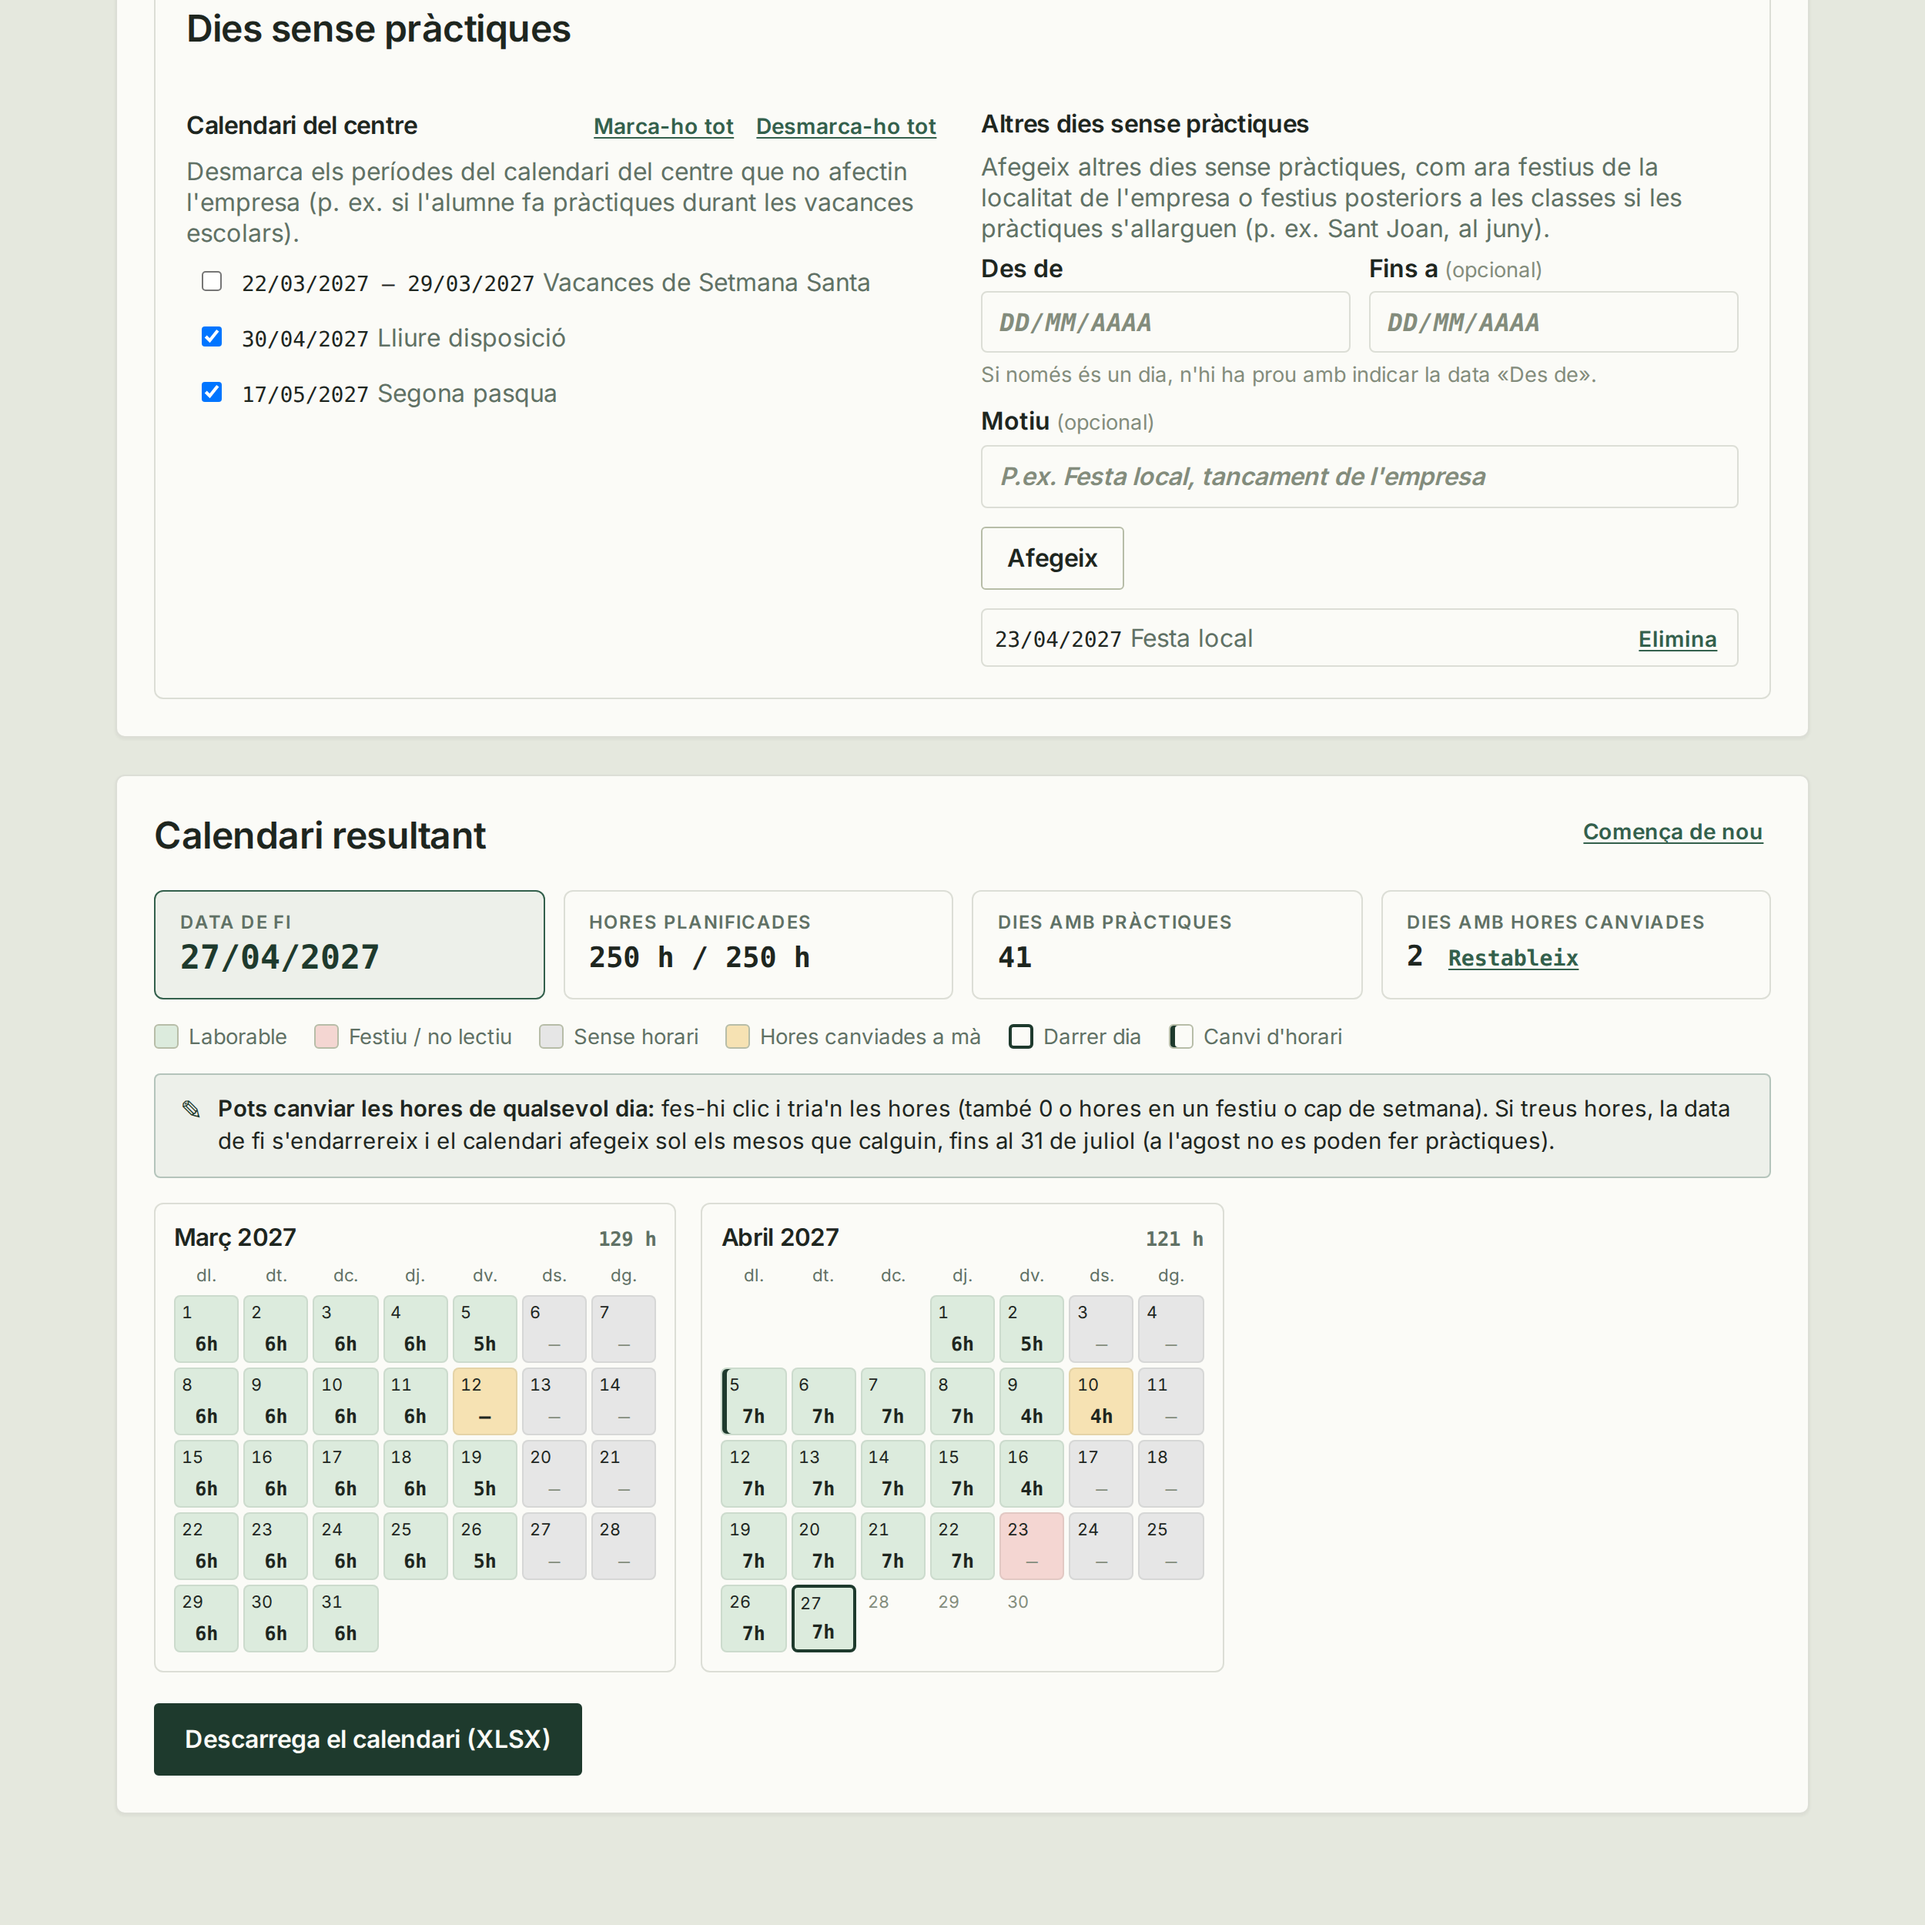
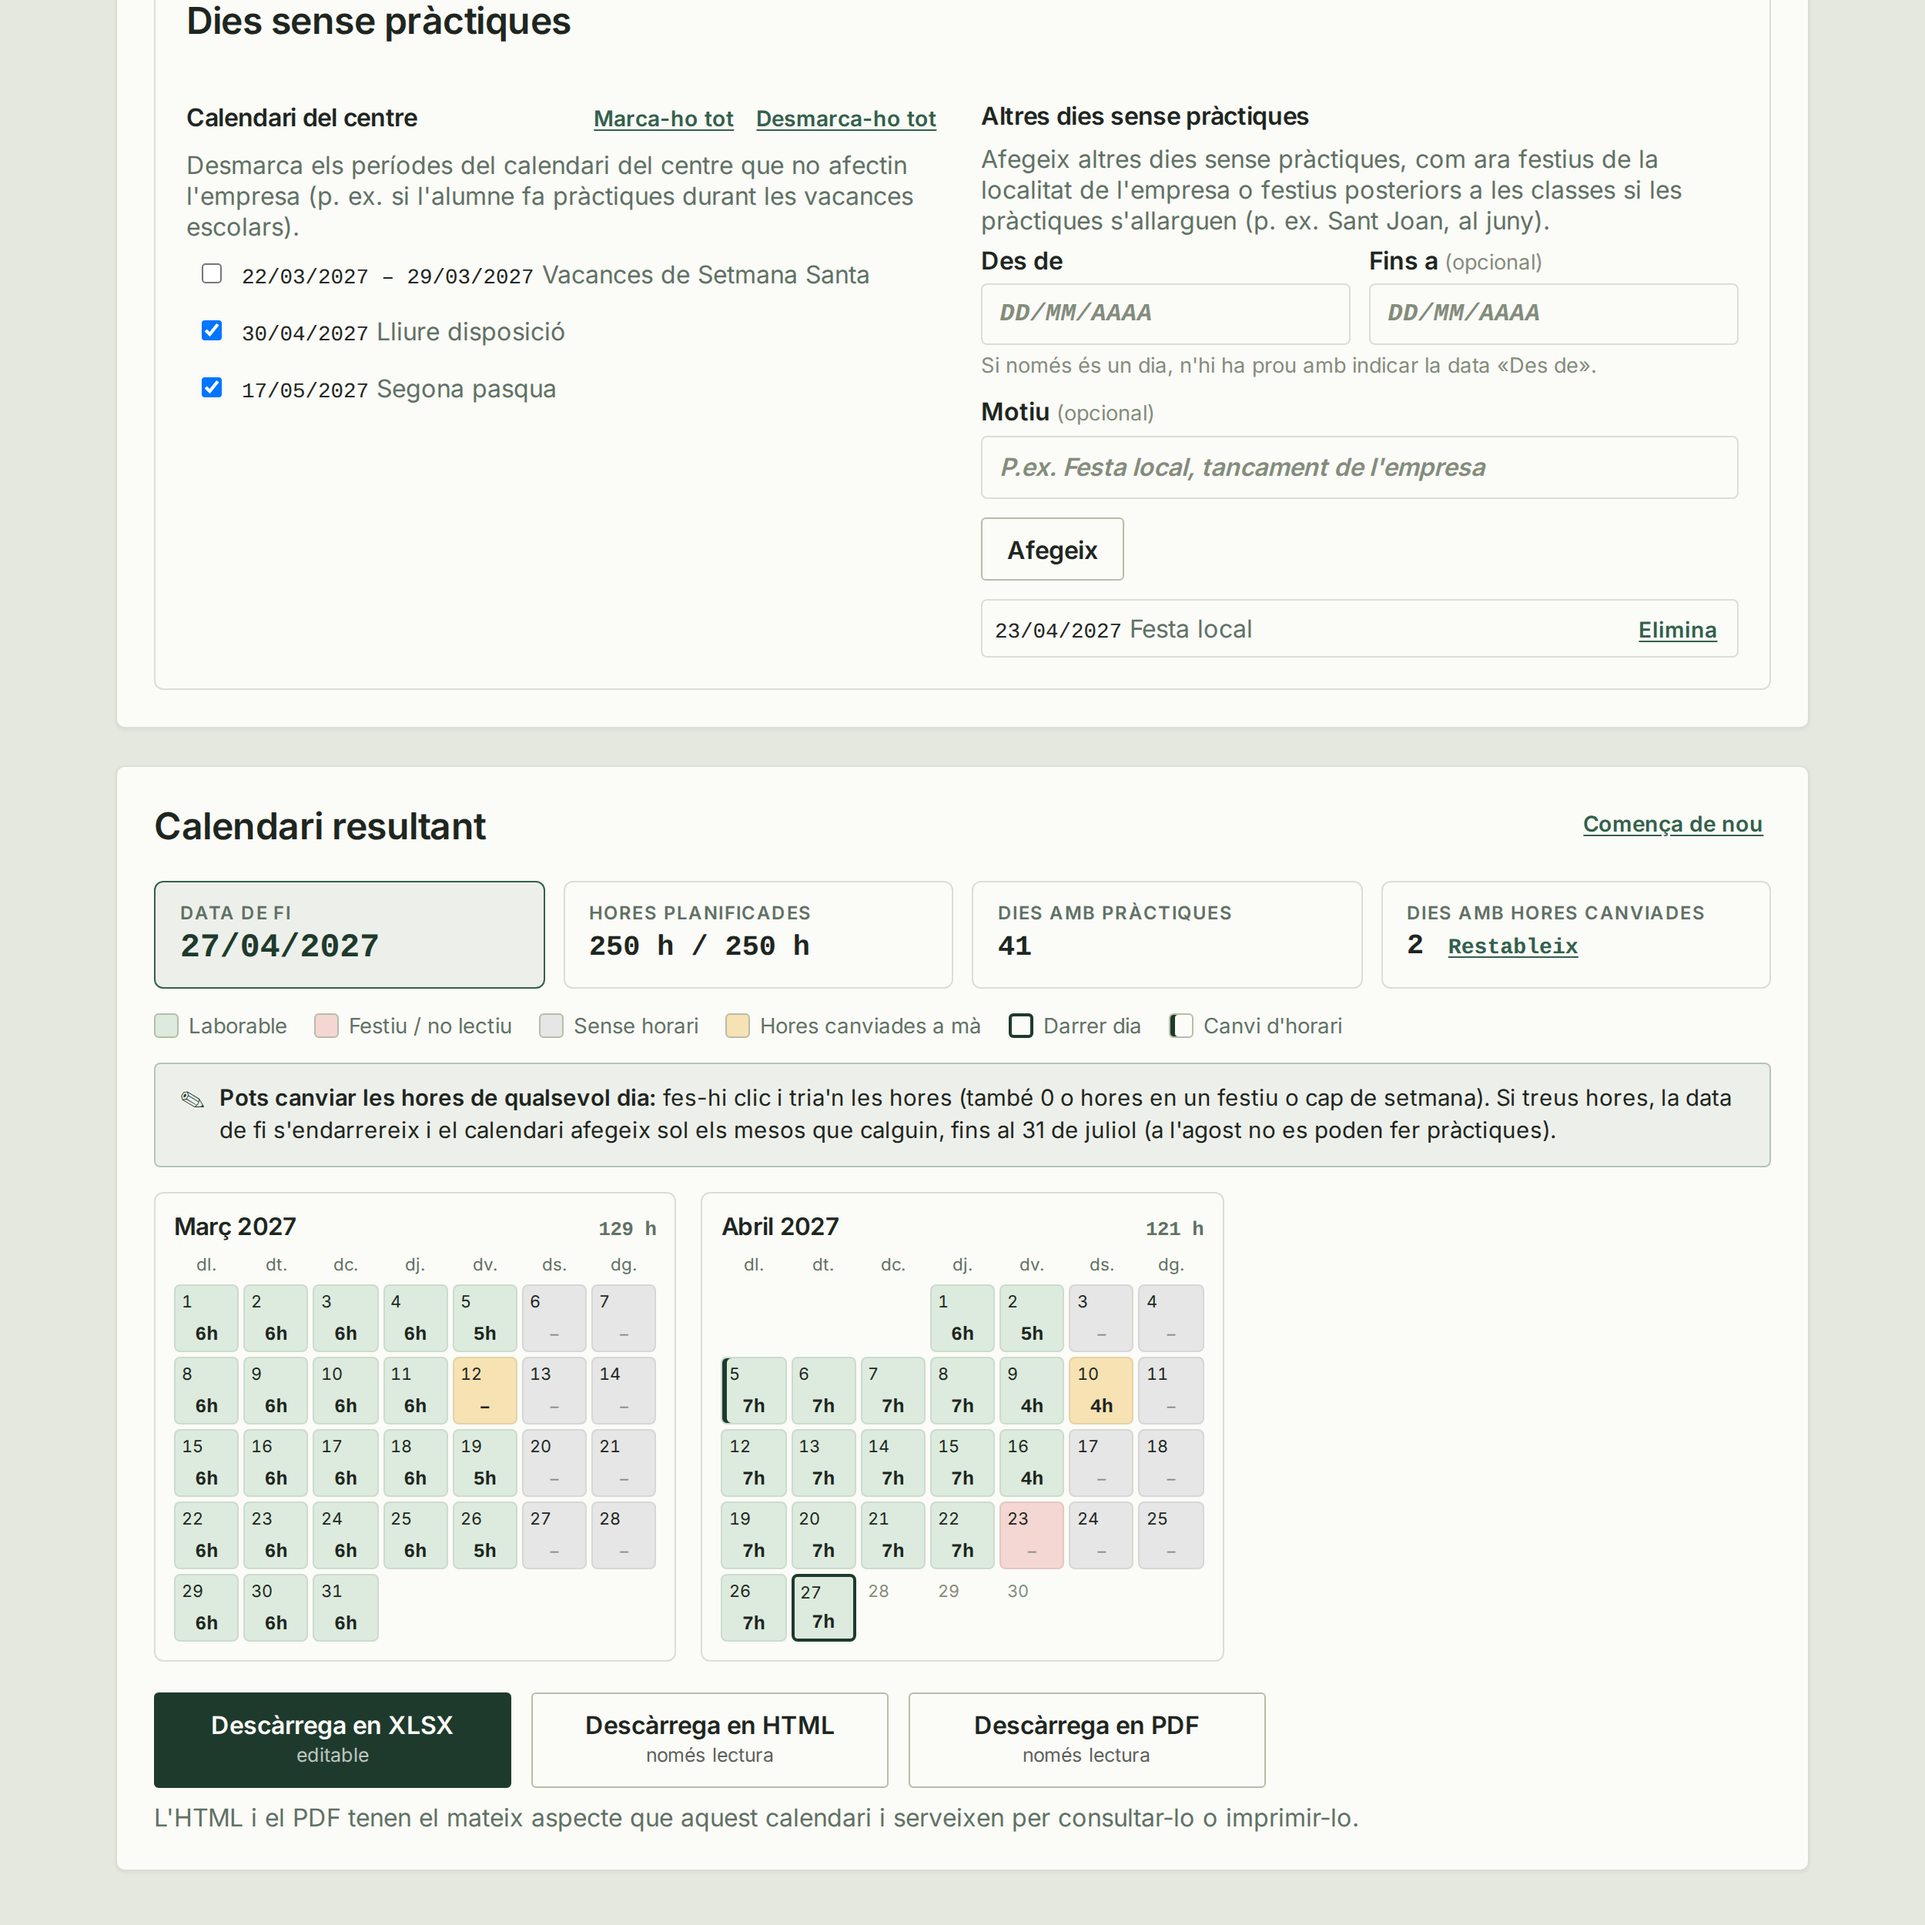
docs: show the XLSX, HTML and PDF download buttons in the internship screenshots

diff --git a/README.md b/README.md
@@ -99,7 +99,7 @@ Indica la data d'inici, les hores totals (amb minuts) i les hores de cada dia de
 
 Els períodes del calendari del centre surten marcats i es poden desmarcar si no afecten l'empresa (p. ex. pràctiques durant les vacances escolars). També s'hi poden afegir altres dies, com festius locals de l'empresa o festius posteriors a les classes. Si les pràctiques van més enllà dels dies no lectius configurats al calendari del centre, un avís en aquesta mateixa secció recorda afegir-hi els festius posteriors. El calendari es recalcula en directe i mostra la data de fi, les hores planificades i els dies amb pràctiques; el darrer dia només rep les hores que falten. Quan hi ha diversos períodes, el primer dia de cadascun queda marcat al calendari.
 
-![Dies sense pràctiques i calendari resultant amb la data de fi](docs/screenshots/tempo-practiques-step-2-calendari.png)
+![Dies sense pràctiques, calendari resultant amb la data de fi i botons de descàrrega en XLSX, HTML i PDF](docs/screenshots/tempo-practiques-step-2-calendari.png)
 
 ### 3. Ajusta les hores d'un dia
 

diff --git a/README.en.md b/README.en.md
@@ -99,7 +99,7 @@ Enter the start date, total hours (minutes supported) and the hours for each wee
 
 The school calendar's periods are pre-selected and can be unticked when they do not affect the company (e.g. an internship that runs through school holidays). Other days can be added too, such as the company's local holidays or holidays after classes end. If the internship runs past the non-teaching days configured in the school calendar, a warning in this same section reminds users to add the later holidays. The calendar recalculates live and shows the end date, planned hours and internship days; the last day only receives the hours still needed. When there are several periods, the first day of each one is marked on the calendar.
 
-![Days without internship and the resulting calendar with its end date](docs/screenshots/tempo-practiques-step-2-calendari.png)
+![Days without internship, the resulting calendar with its end date and the XLSX, HTML and PDF download buttons](docs/screenshots/tempo-practiques-step-2-calendari.png)
 
 ### 3. Adjust A Day's Hours
 

diff --git a/docs/screenshots/README.md b/docs/screenshots/README.md
@@ -20,7 +20,7 @@ The files in this folder document the two public tools. For the curriculum plann
 | `tempo-step-2-parallel.png` | Step 2: distribute RAs across parallel blocks | Supporting advanced-mode example |
 | `tempo-step-3-spreadsheet_2.png` | Result: secondary workbook view | Kept for detailed documentation |
 | `tempo-practiques-step-1-formulari.png` | Internship planner: start date, total hours and a weekly schedule split into two periods | Internship walkthrough |
-| `tempo-practiques-step-2-calendari.png` | Internship planner: days without internship and the resulting calendar | Internship walkthrough |
+| `tempo-practiques-step-2-calendari.png` | Internship planner: days without internship, the resulting calendar and the XLSX, HTML and PDF download buttons | Internship walkthrough |
 | `tempo-practiques-step-3-editor-dia.png` | Internship planner: editing a single day's hours | Internship walkthrough |
 
 `step-3` describes the exported result, not a third screen in the application: the teacher interface itself has two steps.
